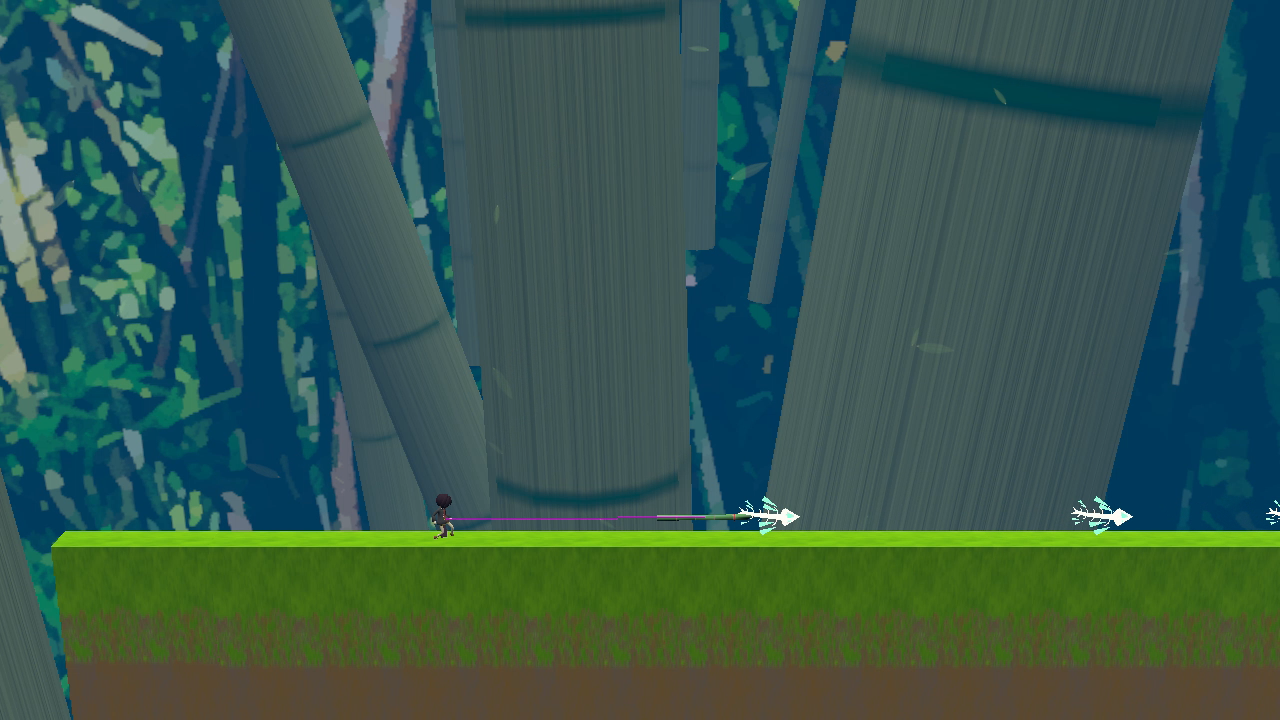
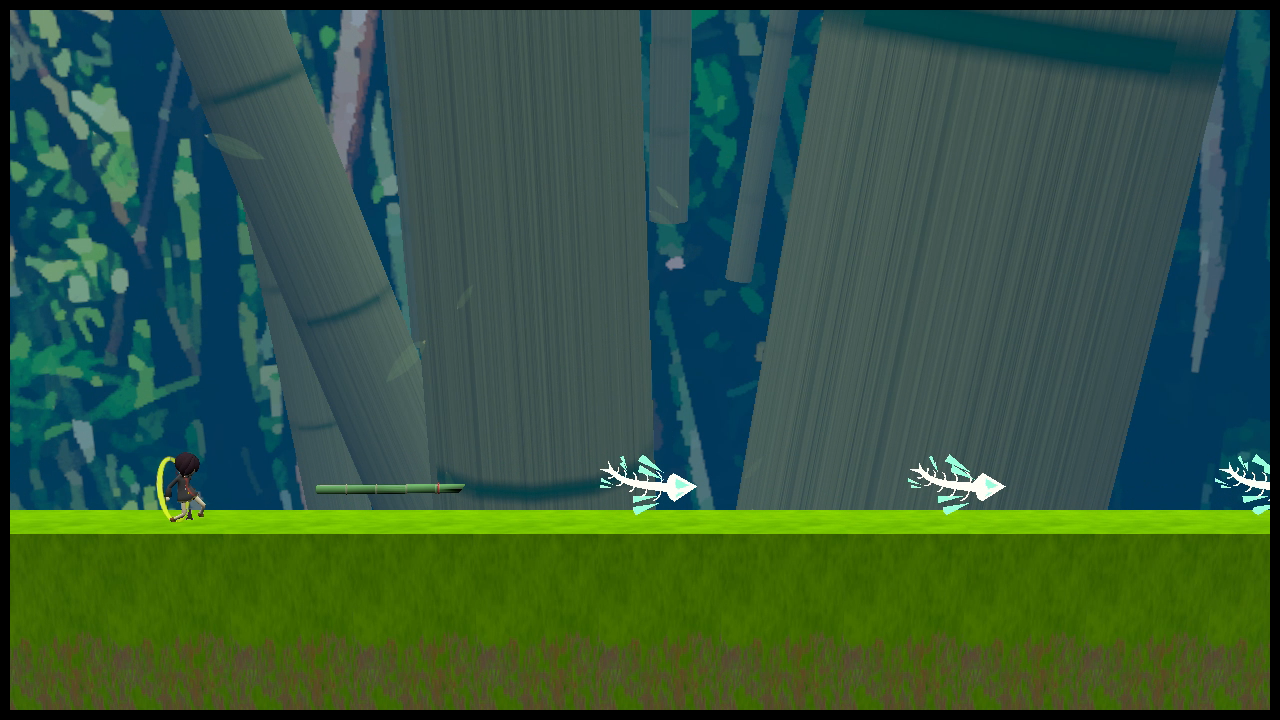
チュートリアル位置調整 + チュートリアル画像変更

diff --git a/Project/Application/Object/BackGround/BackGround.cpp b/Project/Application/Object/BackGround/BackGround.cpp
@@ -30,7 +30,7 @@ void BackGround::Update()
 	if (speartutorialPlaneModel_ != nullptr) {
 		
 		int32_t spearTexIndex = static_cast<int32_t>(Math::Lerp(0, 11, spearCurrentTime_ / spearStagingTime_));
-		int32_t enemyTexIndex = static_cast<int32_t>(Math::Lerp(0, 9, enemyCurrentTime_ / enemyStagingTime_));
+		int32_t enemyTexIndex = static_cast<int32_t>(Math::Lerp(0, 10, enemyCurrentTime_ / enemyStagingTime_));
 
 		// テクスチャ変更
 		speartutorialPlaneModel_->SetTextureHandle(spearTutorialTexHandles_[spearTexIndex], 0);
@@ -151,6 +151,7 @@ void BackGround::SetTutorialPlaneModel(ITextureHandleManager* texHandleManager, 
 	enemyTutorialTexHandles_.insert({ 6, TextureManager::Load("Resources/UI/Tutorials/Enemy/Enemy_06.png", dxCommon_, texHandleManager_) });
 	enemyTutorialTexHandles_.insert({ 7, TextureManager::Load("Resources/UI/Tutorials/Enemy/Enemy_07.png", dxCommon_, texHandleManager_) });
 	enemyTutorialTexHandles_.insert({ 8, TextureManager::Load("Resources/UI/Tutorials/Enemy/Enemy_08.png", dxCommon_, texHandleManager_) });
+	enemyTutorialTexHandles_.insert({ 9, TextureManager::Load("Resources/UI/Tutorials/Enemy/Enemy_09.png", dxCommon_, texHandleManager_) });
 
 	// モデルのデフォルトテクスチャを変更
 	speartutorialPlaneModel_->SetTextureHandle(spearTutorialTexHandles_[0], 0);
@@ -158,16 +159,16 @@ void BackGround::SetTutorialPlaneModel(ITextureHandleManager* texHandleManager, 
 
 	// 演出時間を求める
 	spearStagingTime_ = 0.5f * 11;
-	enemyStagingTime_ = 0.5f * 9;
+	enemyStagingTime_ = 0.5f * 10;
 
 	// ワールドトランスフォームの初期化
 	spearTutorialTransform_.Initialize(model_->GetRootNode());
-	spearTutorialTransform_.transform_.translate = {92.0f, 14.0f, 10.0f };
-	spearTutorialTransform_.transform_.scale = {15.0f, 15.0f, 15.0f };
+	spearTutorialTransform_.transform_.translate = {90.0f, 14.5f, 15.0f };
+	spearTutorialTransform_.transform_.scale = {12.5f, 12.5f, 1.0f };
 	spearTutorialTransform_.UpdateMatrix();
 	enemyTutorialTransform_.Initialize(model_->GetRootNode());
-	enemyTutorialTransform_.transform_.translate = { 145.0f, 25.0f, 10.0f };
-	enemyTutorialTransform_.transform_.scale = { 10.0f, 10.0f, 10.0f };
+	enemyTutorialTransform_.transform_.translate = { 150.0f, 25.0f, 15.0f };
+	enemyTutorialTransform_.transform_.scale = { 12.5f, 12.5f, 1.0f };
 	enemyTutorialTransform_.UpdateMatrix();
 
 	tutorialPlaneMaterial_.reset(Material::Create());

diff --git a/Project/Application/Object/GameCamera/FollowCamera.cpp b/Project/Application/Object/GameCamera/FollowCamera.cpp
@@ -25,23 +25,59 @@ void FollowCamera::Initialize()
 	scalingRate_ = 0.0f;
 	scalingRateT_ = 0.2f;
 
+	// 入力取得
+	input_ = Input::GetInstance();
+
 }
 
 void FollowCamera::Update(float elapsedTime)
 {
-	// 追従処理
-	if (targetTransform_) {
+	if (!isLockCamera_) {
+		// 追従処理
+		if (targetTransform_) {
 
-		transform_.translate = targetTransform_->transform_.translate + defaultOffset_ + defaultOffsetAdd_;
+			transform_.translate = targetTransform_->transform_.translate + defaultOffset_ + defaultOffsetAdd_;
 
+		}
+
+		// 拡縮処理
+		if (player_) {
+
+			ScalingUpDown();
+			MoveCameraForward();
+		}
+
+		/*if (input_->TriggerJoystick(JoystickButton::kJoystickButtonSTART)) {
+			isLockCamera_ = true;
+		}*/
+	}
+	else {
+		/*if (input_->TriggerJoystick(JoystickButton::kJoystickButtonSTART)) {
+			isLockCamera_ = false;
+		}
+
+		if (input_->PushKey(DIK_W)) {
+			transform_.translate.z += 0.1f;
+		}
+		else if (input_->PushKey(DIK_S)) {
+			transform_.translate.z -= 0.1f;
+		}
+
+		if (input_->PushKey(DIK_LSHIFT)) {
+			transform_.translate.y += 0.1f;
+		}
+		else if (input_->PushKey(DIK_LCONTROL)) {
+			transform_.translate.y -= 0.1f;
+		}
+
+		if (input_->PushKey(DIK_D)) {
+			transform_.translate.x += 0.1f;
+		}
+		else if (input_->PushKey(DIK_A)) {
+			transform_.translate.x -= 0.1f;
+		}*/
 	}
 
-	// 拡縮処理
-	if (player_) {
-
-		ScalingUpDown();
-		MoveCameraForward();
-	}
 	// 基底クラス更新
 	BaseCamera::Update(elapsedTime);
 

diff --git a/Project/Application/Object/GameCamera/FollowCamera.h b/Project/Application/Object/GameCamera/FollowCamera.h
@@ -50,6 +50,12 @@ private:
 
 	TimerLib correctTimer_;
 
+	// 入力クラス
+	Input* input_ = nullptr;
+
+	// カメラ固定
+	bool isLockCamera_ = false;
+
 private: // お試し
 
 	// オフセット位置ターゲット

diff --git a/Project/Application/Scene/GameScene/GameScene.cpp b/Project/Application/Scene/GameScene/GameScene.cpp
@@ -396,7 +396,7 @@ void GameScene::Draw() {
 	//uiManager_->Draw();
 
 	// UIマネージャー描画
-	gameUIManager_->Draw();
+	//gameUIManager_->Draw();
 	arrowSprite_->Draw();
 
 	// 前景スプライト描画後処理
